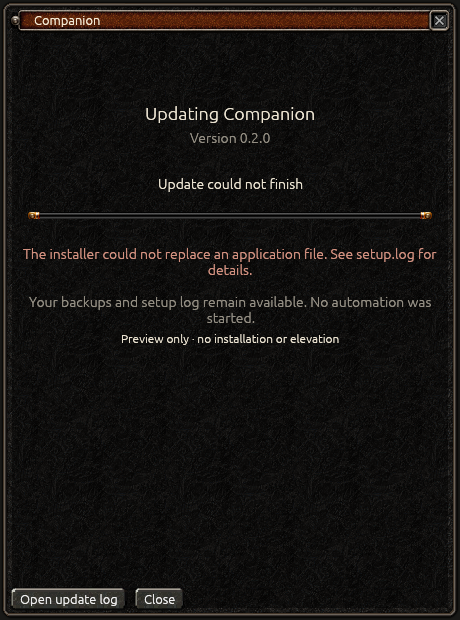
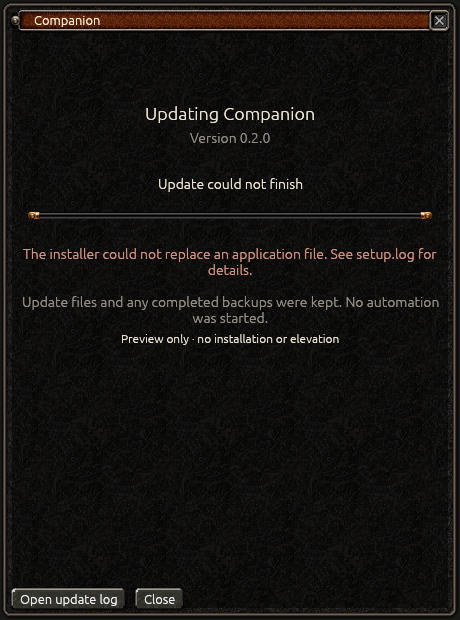
Fix updater backup of its exclusively locked profile control file

Changed region(s): [[0.0609, 0.4597, 0.9435, 0.521]]

diff --git a/crates/metin-desktop/src/update_helper/window.rs b/crates/metin-desktop/src/update_helper/window.rs
@@ -138,7 +138,7 @@ fn draw_window(
                     if let HelperStatus::Failed(error)=status {
                         ui.add(egui::Label::new(egui::RichText::new(error).color(widgets::RED)).wrap());
                         ui.add_space(10.);
-                        ui.weak("Your backups and setup log remain available. No automation was started.");
+                        ui.weak("Update files and any completed backups were kept. No automation was started.");
                     } else { ui.weak("Your profiles and settings will be kept."); }
                     if fixture { ui.small("Preview only · no installation or elevation"); }
                 });
@@ -225,8 +225,13 @@ fn set(status: &Mutex<HelperStatus>, value: HelperStatus) {
     }
 }
 
-fn backup_tree(source: &Path, destination: &Path) -> Result<(), String> {
-    let before = file_tree::fingerprints_except(source, None).map_err(|e| e.to_string())?;
+fn backup_tree(
+    source: &Path,
+    destination: &Path,
+    excluded: Option<&Path>,
+) -> Result<std::collections::BTreeMap<PathBuf, String>, String> {
+    let before = file_tree::fingerprints_except(source, excluded)
+        .map_err(|e| format!("Could not inspect {} for backup: {e}", source.display()))?;
     fs::create_dir(destination).map_err(|e| e.to_string())?;
     for relative in before.keys() {
         let output = destination.join(relative);
@@ -238,7 +243,7 @@ fn backup_tree(source: &Path, destination: &Path) -> Result<(), String> {
     if file_tree::fingerprints_except(destination, None).map_err(|e| e.to_string())? != before {
         return Err("Backup verification failed; nothing was installed.".into());
     }
-    Ok(())
+    Ok(before)
 }
 /// Compare canonical identities, but preserve the registry's spelling for Setup.
 /// Inno's existing-location preflight rejects Rust's Windows verbatim prefix.
@@ -278,19 +283,29 @@ fn install(
     set(status, HelperStatus::Waiting);
     parent.wait()?;
     session::require_commit(root, session.id)?;
+    let store_lock_path = session.data_dir.join("profiles/.store.lock");
     let store_lock = OpenOptions::new()
         .read(true)
         .write(true)
-        .open(session.data_dir.join("profiles/.store.lock"))
+        .open(&store_lock_path)
         .map_err(|e| e.to_string())?;
     fs2::FileExt::try_lock_exclusive(&store_lock).map_err(
         |_| "Another Companion instance opened these profiles. Close it before updating.",
     )?;
     set(status, HelperStatus::BackingUp);
-    let original_data =
-        file_tree::fingerprints_except(&session.data_dir, None).map_err(|e| e.to_string())?;
-    backup_tree(&session.data_dir, &root.join("data-backup"))?;
-    backup_tree(&session.installation, &root.join("installation-backup"))?;
+    // The writer lock remains held throughout setup and verification. Its
+    // control file is not profile data and Windows refuses to read its bytes
+    // through another handle while that exclusive byte-range lock is active.
+    let original_data = backup_tree(
+        &session.data_dir,
+        &root.join("data-backup"),
+        Some(&store_lock_path),
+    )?;
+    backup_tree(
+        &session.installation,
+        &root.join("installation-backup"),
+        None,
+    )?;
     session::require_commit(root, session.id)?;
     set(status, HelperStatus::Installing(None));
     let args: Vec<std::ffi::OsString> = vec![
@@ -368,7 +383,8 @@ fn install(
     {
         return Err("The input driver status could not be verified after update.".into());
     }
-    if file_tree::fingerprints_except(&session.data_dir, None).map_err(|e| e.to_string())?
+    if file_tree::fingerprints_except(&session.data_dir, Some(&store_lock_path))
+        .map_err(|e| e.to_string())?
         != original_data
     {
         return Err(
@@ -408,6 +424,57 @@ fn install(
 #[cfg(test)]
 mod installation_directory_tests {
     use super::*;
+
+    #[test]
+    fn profile_backup_preserves_all_content_while_its_store_lock_stays_exclusive() {
+        let temporary = tempfile::tempdir().unwrap();
+        let data = temporary.path().join("data");
+        let profiles = data.join("profiles");
+        let mut store = crate::storage::ProfileStore::open(&profiles).unwrap();
+        let profile = metin_core::Profile::create("Update regression");
+        store.save(&profile, None).unwrap();
+        fs::write(data.join("ui-settings.json"), b"{\"ui_scale\":1.0}").unwrap();
+        fs::create_dir(data.join("captures")).unwrap();
+        fs::write(
+            data.join("captures/.store.lock"),
+            b"ordinary content with the same filename",
+        )
+        .unwrap();
+        fs::write(data.join("captures/reference.png"), [0, 1, 2, 3, 255]).unwrap();
+        let lock = profiles.join(".store.lock");
+        let expected = file_tree::fingerprints_except(&data, Some(&lock)).unwrap();
+        let backup = temporary.path().join("backup");
+        #[cfg(windows)]
+        assert!(
+            backup_tree(
+                &data,
+                &temporary.path().join("wrong-exclusion"),
+                Some(&data.join("captures/.store.lock"))
+            )
+            .is_err(),
+            "An unrelated exclusion must not hide the locked profile-store file"
+        );
+        let verified = backup_tree(&data, &backup, Some(&lock))
+            .expect("Back up actual data without reading the held control lock");
+        assert_eq!(verified, expected);
+        assert!(!backup.join("profiles/.store.lock").exists());
+        assert_eq!(
+            file_tree::fingerprints_except(&backup, None).unwrap(),
+            expected
+        );
+        assert!(backup.join("captures/.store.lock").is_file());
+        assert!(
+            crate::storage::ProfileStore::open(&profiles).is_err(),
+            "Backup must never release the writer lock"
+        );
+        fs::write(data.join("ui-settings.json"), b"changed during install").unwrap();
+        assert_ne!(
+            file_tree::fingerprints_except(&data, Some(&lock)).unwrap(),
+            expected,
+            "The lock exclusion must not hide real data changes"
+        );
+        drop(store);
+    }
 
     #[test]
     fn registry_path_keeps_setup_spelling_after_canonical_identity_validation() {

diff --git a/docs/development.md b/docs/development.md
@@ -159,6 +159,8 @@ Append `--download` to verify and discard an offered installer as well. The JSON
 
 `update_helper` stages a verified copy of the current runtime and retained downloaded installer outside the installed directory. The parent releases input and resolves unsaved edits before a typed session/ready handshake; a failed preparation leaves an operable paused application. The helper rechecks the candidate against the fixed official feed, verifies the staged runtime and package, checks the original parent identity, waits for it to exit, locks the profile store and hash-checks complete installation/data backups. It invokes the canonical Inno installer, not a second file-replacement implementation. Session-matched bounded progress from Inno distinguishes actual file-copy progress from indeterminate driver/finalization stages. A completed extraction is not 100% update success. Completion is gated on the installed bundle and requested version, isolated installed self-test, driver readiness and unchanged user data before reopening Companion paused.
 
+The updater keeps its exclusive `profiles/.store.lock` handle throughout backup, setup and retained-data verification. Backup copying and the final data comparison exclude that exact transient control-file path: Windows rejects reads through a second handle with error 33 while the lock is held. Other files, including identically named files elsewhere, remain included. The backup returns its verified hash snapshot for the final comparison. A native regression uses a real `ProfileStore` lock, verifies byte-preserved profile/settings/reference content, detects changed data and confirms another writer is still refused.
+
 Update sessions hold the staged runtime, setup package, progress/log files and backups under the current user's temporary directory. Active, incomplete and failed sessions remain available for diagnosis. A later update may clean a completed inactive owned session older than 24 hours after verifying its marker, location and unlinked tree. Tests cover metadata/authority, path/size/hash bounds, handoff failures, cancellation, stale results, phase progress and cleanup. Native UI fixtures remain inert and do not establish an installed update.
 
 **Pending acceptance for this change:** the real Check → Install update → UAC → hidden setup → installed verification → restart path has not been exercised on the user's installation while the user is away. Do not request elevation, run setup or mutate the driver as part of unattended verification. After the user returns, use an explicitly authorized backed-up upgrade, record before/after hashes and exact package/commit, and test success plus UAC cancellation/failure. Safe callback/UI fixtures, Cargo checks and package verification are separate evidence, not completion of this gate.

diff --git a/docs/user-guide.md b/docs/user-guide.md
@@ -13,6 +13,8 @@ Uninstall retains profiles and the shared driver by default. Choose driver remov
 
 Startup checking is enabled by default and runs once per launch. An existing explicit opt-out is preserved; change **Check automatically on startup** in **Settings → Updates**. **Stable** is the default channel; choose **Preview** to include release candidates. Checks use the public [Companion GitHub releases](https://github.com/ethanjojo/metin2-bot/releases) without an account or token and without sending profiles, captures or game data. Only compatible newer Companion packages are offered.
 
+“Up to date” applies to the selected channel. A newer `review`, `dev` or `rc` prerelease is offered only on **Preview**.
+
 The opening window first checks for updates. Choose **Continue** to stop waiting and open the game-window chooser. If a newer version is found, the same window offers **Install update** or **Skip for now**. Skip affects this launch only; it does not disable future checks. Once dismissed, a late result cannot replace the chooser or interrupt your connected game session. With no newer release, Companion proceeds to the chooser automatically.
 
 ![Startup update offer in the Companion window](assets/startup-update-available.png)

diff --git a/docs/release-notes.md b/docs/release-notes.md
@@ -4,6 +4,7 @@ Companion for Windows x64: a compact Rust/egui desktop application for local vis
 
 ## Highlights
 
+- In-app updates keep profiles locked while verifying and copying their data without reading the transient lock file, fixing Windows error 33 during backup preparation.
 - Specific Run pause causes, recovery links and configuration readiness; F7 and the main button share validated Save & Start, including while minimized. F8 cancels pending starts even during saving, and input requires the acknowledged current configuration.
 - Review exact unsaved changes, return to the last Actions detail through breadcrumbs, and adjust UI scale as 75–150%. Pinned client-relative panel positions survive reconnects and remain accessible after monitor/size changes.
 - Duplicate profiles or export/import one bounded `.companion-profile` package with settings and images, fresh identity and explicit preview. Named excluded areas retain geometry through rename, edit and undo, including legacy profile loading.

diff --git a/CHANGELOG.md b/CHANGELOG.md
@@ -2,6 +2,7 @@
 
 ## Unreleased
 
+- Fix Windows error 33 during in-app updates: retain the exclusive profile-store lock while excluding only its transient control file from backup hashes and copying; all profile data and reference images remain verified.
 - Precise Run pause causes with details/recovery and distinct setup readiness; one validated Save & Start path for F7 and the main button, including hidden/minimized-window logic and short-lived start requests.
 - Cached unsaved-field summaries, retained Actions details with breadcrumbs, DPI-aware per-client pinned panel positions and percentage UI scale with reset.
 - Read-only fresh HP/buff recognition checks with actual shared matcher scores, reference/current crops and Unknown/evidence-age explanations.
